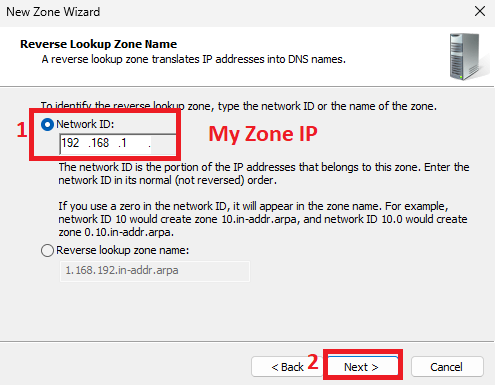
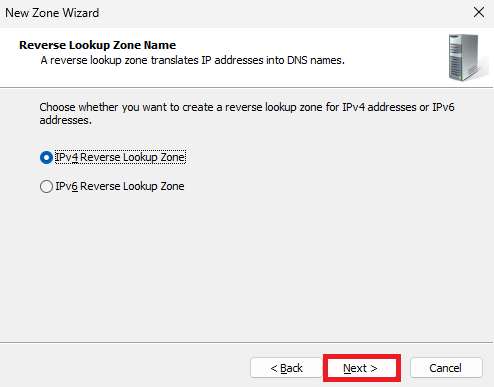
d
d

diff --git a/content/posts/Windows Server 2025/index.md b/content/posts/Windows Server 2025/index.md
@@ -104,5 +104,13 @@ Next
 ![img27](images/27.png)
 
 
-Enter Zone IP my its 192.168.1
+Enter Zone IP my its `192.168.1`
 ![img28](images/28.png)
+
+Next
+![img29](images/29.png)
+
+Next
+![img30](images/30.png)
+
+![img31](images/31.png)
